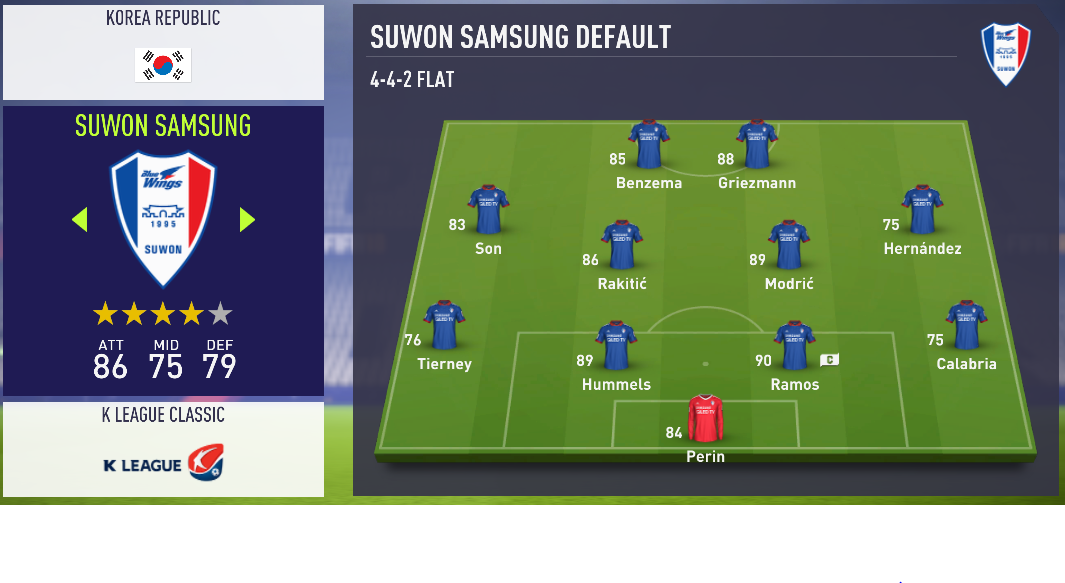
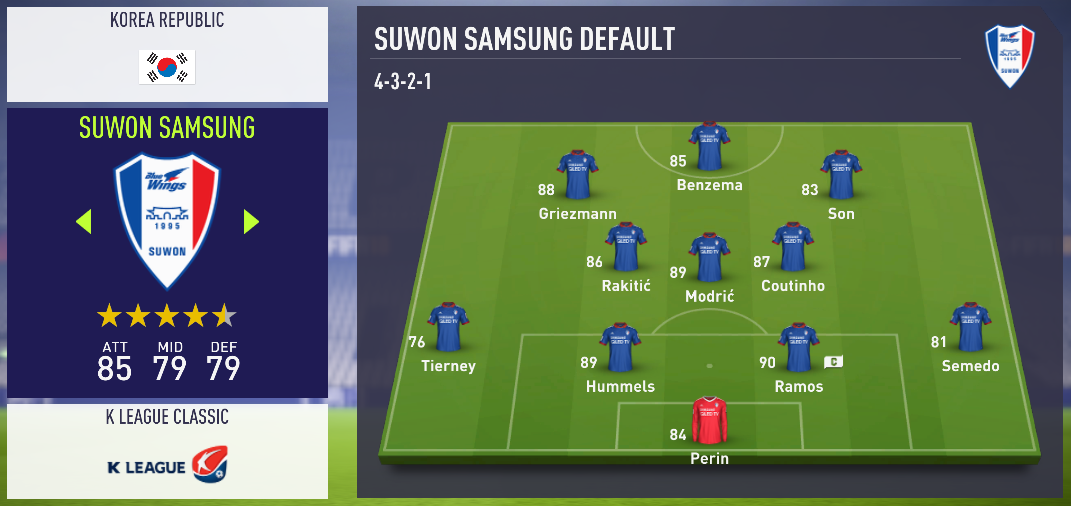
20:30 이적반영

diff --git a/season2.html b/season2.html
@@ -13,7 +13,7 @@
     <img src="image/draft.PNG">
     
     <h1>이적 현황 18:40 업데이트</h1>
-    <img src="image/%EC%9D%B4%EC%A0%81.PNG">
+    <img src="image/transfer.PNG">
     
     <a href="seoul.html"> <h1>서울</h1> </a>
     <a href="suwon.html"> <h1>수원</h1> </a>

diff --git a/jeonbuk.html b/jeonbuk.html
@@ -7,7 +7,7 @@
     </head>
     <body>
         <h1>전북 포메이션</h1>
-        <img src="image/junbuk.PNG">
+        <img src="image/Jeonbuk.PNG">
     </body>
     
 </html>
